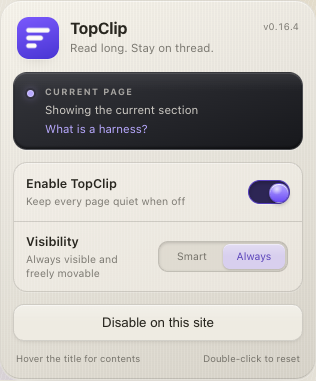
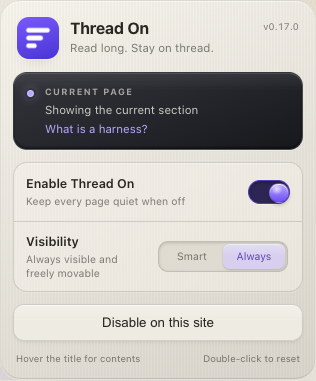
v0.17.0: rename product to Thread On

Changed region(s): [[0.2278, 0.0577, 0.4842, 0.1155], [0.2278, 0.4619, 0.4272, 0.5197], [0.8829, 0.0577, 0.9399, 0.0866]]

diff --git a/src/shared/settings.ts b/src/shared/settings.ts
@@ -8,7 +8,7 @@ export interface FloatingPosition {
   y: number;
 }
 
-export interface WssSettings {
+export interface ThreadOnSettings {
   version: number;
   /** Global switch. No UI is mounted while disabled. */
   enabled: boolean;
@@ -22,7 +22,7 @@ export interface WssSettings {
 export const SETTINGS_VERSION = 6;
 export const SETTINGS_KEY = 'wss:settings';
 
-export const DEFAULT_SETTINGS: WssSettings = {
+export const DEFAULT_SETTINGS: ThreadOnSettings = {
   version: SETTINGS_VERSION,
   enabled: true,
   displayPolicy: 'always',
@@ -90,7 +90,7 @@ function normalizeFloatingPositions(raw: unknown): Record<string, FloatingPositi
 }
 
 /** Migrate supported legacy fields and validate all persisted values. */
-export function normalizeSettings(raw: unknown): WssSettings {
+export function normalizeSettings(raw: unknown): ThreadOnSettings {
   const input = (raw ?? {}) as Record<string, unknown>;
   const displayPolicy =
     input.displayPolicy === 'peek'
@@ -122,12 +122,15 @@ export function matchSite(sites: string[], hostname: string): string | undefined
   return sites.find((entry) => host === entry || host.endsWith(`.${entry}`));
 }
 
-export function isSiteEnabled(settings: WssSettings, hostname: string): boolean {
+export function isSiteEnabled(settings: ThreadOnSettings, hostname: string): boolean {
   if (!settings.enabled) return false;
   return matchSite(settings.disabledSites, hostname) === undefined;
 }
 
-export function toggleSite(settings: WssSettings, hostname: string): WssSettings {
+export function toggleSite(
+  settings: ThreadOnSettings,
+  hostname: string,
+): ThreadOnSettings {
   const host = normalizeHost(hostname);
   if (!host) return settings;
   const matched = matchSite(settings.disabledSites, host);
@@ -143,7 +146,7 @@ function hasChromeStorage(): boolean {
   return typeof chrome !== 'undefined' && !!chrome?.storage?.sync;
 }
 
-export async function loadSettings(): Promise<WssSettings> {
+export async function loadSettings(): Promise<ThreadOnSettings> {
   if (!hasChromeStorage()) {
     try {
       const raw = window.localStorage.getItem(LS_KEY);
@@ -160,7 +163,7 @@ export async function loadSettings(): Promise<WssSettings> {
   }
 }
 
-export async function saveSettings(next: WssSettings): Promise<void> {
+export async function saveSettings(next: ThreadOnSettings): Promise<void> {
   const normalized = normalizeSettings(next);
   if (!hasChromeStorage()) {
     try {
@@ -177,7 +180,9 @@ export async function saveSettings(next: WssSettings): Promise<void> {
   }
 }
 
-export function subscribeSettings(callback: (settings: WssSettings) => void): () => void {
+export function subscribeSettings(
+  callback: (settings: ThreadOnSettings) => void,
+): () => void {
   if (!hasChromeStorage()) {
     const onStorage = (event: StorageEvent): void => {
       if (event.key !== LS_KEY) return;

diff --git a/src/content/index.ts b/src/content/index.ts
@@ -16,7 +16,7 @@ import {
   saveSettings,
   subscribeSettings,
   type FloatingPosition,
-  type WssSettings,
+  type ThreadOnSettings,
 } from '../shared/settings';
 import { STATUS_MESSAGE, type ContentStatus } from '../shared/protocol';
 import {
@@ -31,13 +31,13 @@ import { ScrollTracker, type TrackerSnapshot } from './tracker';
 import { detectTopChrome } from './top-chrome';
 import { CapsuleUI } from './ui';
 
-declare const __WSS_VERSION__: string;
+declare const __THREAD_ON_VERSION__: string;
 
 class ReadingContextApp {
   private readonly guard = new FailureGuard({
     onFailSafe: (reason) => this.failSafe(reason),
   });
-  private settings: WssSettings = { ...DEFAULT_SETTINGS };
+  private settings: ThreadOnSettings = { ...DEFAULT_SETTINGS };
   private index: HeadingIndex | null = null;
   private tracker: ScrollTracker | null = null;
   private ui: CapsuleUI | null = null;
@@ -102,7 +102,7 @@ class ReadingContextApp {
     this.applySettings(this.settings);
   }
 
-  private applySettings(next: WssSettings): void {
+  private applySettings(next: ThreadOnSettings): void {
     const previousPolicy = this.settings.displayPolicy;
     this.settings = next;
     this.siteAllowed = isSiteEnabled(next, location.hostname);
@@ -601,7 +601,7 @@ class ReadingContextApp {
       pageTocVisible: this.tocVisible,
       dockTop: this.pillTop(),
       layerZIndex: this.layerZIndex(),
-      contentVersion: __WSS_VERSION__,
+      contentVersion: __THREAD_ON_VERSION__,
       displayPolicy: this.settings.displayPolicy,
       currentSection:
         this.snapshot && this.snapshot.index >= 0

diff --git a/src/popup/popup.html b/src/popup/popup.html
@@ -3,7 +3,7 @@
   <head>
     <meta charset="UTF-8" />
     <meta name="viewport" content="width=device-width, initial-scale=1.0" />
-    <title>TopClip</title>
+    <title>Thread On</title>
     <style>
       :root {
         color-scheme: light dark;
@@ -447,7 +447,7 @@
       <header>
         <img class="logo" src="../../icons/icon48.png" alt="" width="42" height="42" />
         <div class="brand">
-          <h1 data-i18n="extensionName">TopClip</h1>
+          <h1 data-i18n="brandName">Thread On</h1>
           <p data-i18n="tagline">Read long. Stay on thread.</p>
         </div>
         <span class="version" id="version"></span>
@@ -461,10 +461,10 @@
         </div>
       </section>
 
-      <section class="controls" data-i18n-aria-label="settingsAria" aria-label="TopClip settings">
+      <section class="controls" data-i18n-aria-label="settingsAria" aria-label="Thread On settings">
         <label class="row">
           <span class="row-label">
-            <strong data-i18n="enableLabel">Enable TopClip</strong>
+            <strong data-i18n="enableLabel">Enable Thread On</strong>
             <small data-i18n="enableHint">Keep every page quiet when off</small>
           </span>
           <span class="switch">

diff --git a/src/popup/popup.ts b/src/popup/popup.ts
@@ -5,7 +5,7 @@ import {
   saveSettings,
   toggleSite,
   type DisplayPolicy,
-  type WssSettings,
+  type ThreadOnSettings,
 } from '../shared/settings';
 import { localizeDocument, t, type MessageKey } from '../shared/i18n';
 import { STATUS_MESSAGE, type ContentStatus } from '../shared/protocol';
@@ -31,7 +31,7 @@ const policyInputs = [
   ...document.querySelectorAll<HTMLInputElement>('input[name="displayPolicy"]'),
 ];
 
-let settings: WssSettings = { ...DEFAULT_SETTINGS };
+let settings: ThreadOnSettings = { ...DEFAULT_SETTINGS };
 let pageStatus: ContentStatus | null = null;
 
 function renderStatusMessage(message: string, currentSection?: string | null): void {

diff --git a/src/shared/i18n.test.ts b/src/shared/i18n.test.ts
@@ -14,6 +14,8 @@ describe('i18n', () => {
   });
 
   it('falls back to the English catalog', () => {
+    expect(t('brandName')).toBe('Thread On');
+    expect(t('enableLabel')).toBe('Enable Thread On');
     expect(t('policyAlways')).toBe('Always');
   });
 
@@ -26,6 +28,7 @@ describe('i18n', () => {
     });
 
     expect(t('policyAlways')).toBe('常驻');
+    expect(t('enableLabel')).toBe('启用 Thread On');
     expect(t('siteDisabled', ['example.com'])).toBe('已在 example.com 上停用。');
   });
 

diff --git a/docs/privacy.html b/docs/privacy.html
@@ -3,7 +3,7 @@
   <head>
     <meta charset="UTF-8" />
     <meta name="viewport" content="width=device-width, initial-scale=1.0" />
-    <title>隐私政策 · TopClip</title>
+    <title>隐私政策 · Thread On</title>
     <style>
       body {
         margin: 0 auto;
@@ -25,7 +25,7 @@
     </style>
   </head>
   <body>
-    <h1>隐私政策 · TopClip</h1>
+    <h1>隐私政策 · Thread On</h1>
     <p class="meta">最后更新：2026-10-23</p>
 
     <h2>我们收集什么</h2>

diff --git a/e2e/complex-background-fixture.html b/e2e/complex-background-fixture.html
@@ -51,7 +51,7 @@
       </p>
       <h2 style="color: white">第二节：保持克制</h2>
       <p>
-        页面可以非常鲜艳，但 TopClip 只增加一个可控的小表面，不改正文、不盖住页面结构。
+        页面可以非常鲜艳，但 Thread On 只增加一个可控的小表面，不改正文、不盖住页面结构。
         控件始终留在视口安全边界内，并允许用户拖到更合适的位置。
       </p>
       <p>

diff --git a/e2e/fixture.html b/e2e/fixture.html
@@ -2,7 +2,7 @@
 <html lang="zh-CN">
   <head>
     <meta charset="UTF-8" />
-    <title>TopClip · E2E Fixture</title>
+    <title>Thread On · E2E Fixture</title>
     <style>
       body { margin: 0; font: 16px/1.8 system-ui, sans-serif; color: #111; }
       .topbar { position: fixed; inset: 0 0 auto 0; height: 56px; background: #fff; border-bottom: 1px solid #ddd; display: flex; align-items: center; padding: 0 20px; z-index: 10; }

diff --git a/demo/index.html b/demo/index.html
@@ -186,7 +186,7 @@ export function visibleItems(state, query) {
 
     <footer class="site-footer">
       <h3>关于本站</h3>
-      <p>这是一个用于验证 TopClip 的本地演示页面。</p>
+      <p>这是一个用于验证 Thread On 的本地演示页面。</p>
     </footer>
 
     <div class="demo-toolbar">

diff --git a/vite.config.ts b/vite.config.ts
@@ -5,7 +5,7 @@ import manifest from './manifest.json' with { type: 'json' };
 export default defineConfig({
   plugins: [crx({ manifest })],
   define: {
-    __WSS_VERSION__: JSON.stringify(manifest.version),
+    __THREAD_ON_VERSION__: JSON.stringify(manifest.version),
   },
   build: {
     outDir: 'dist',

diff --git a/README.md b/README.md
@@ -1,16 +1,16 @@
-# TopClip
+# Thread On
 
 [![CI](https://github.com/dongruixiao/web-sticky-scroll/actions/workflows/ci.yml/badge.svg)](https://github.com/dongruixiao/web-sticky-scroll/actions/workflows/ci.yml)
 
-> **TopClip — 读长文，不掉线**
-> 仓库名 `web-sticky-scroll` 是技术标识；面向用户的产品名是 TopClip。
+> **Thread On — 读长文，不掉线**
+> 仓库名 `web-sticky-scroll` 是技术标识；面向用户的产品名是 Thread On。
 
 阅读长文时，真正容易丢失的往往不是导航，而是**当前这一节在讲什么**。往下滚动几屏后，眼睛还在正文里，
-上下文却已经断了。TopClip 用一枚始终显示当前章节的拟物胶囊，帮你保持内容记忆；目录和进度是顺带的辅助。
+上下文却已经断了。Thread On 用一枚始终显示当前章节的拟物胶囊，帮你保持内容记忆；目录和进度是顺带的辅助。
 
 ## 产品形态
 
-TopClip 现在只有一种稳定形态：**可自由拖动的拟物章节胶囊**。
+Thread On 现在只有一种稳定形态：**可自由拖动的拟物章节胶囊**。
 
 - 胶囊显示当前章节标题，不复制网页标题、不伪造页面结构。
 - 胶囊可拖到视口内任何位置，位置按站点记忆，双击恢复默认位置。
@@ -69,7 +69,7 @@ TopClip 现在只有一种稳定形态：**可自由拖动的拟物章节胶囊*
 | 正文容器与侧栏过滤 | 避免把页脚、导航和评论区标题当作文章章节 |
 
 原则是：**宁可漏掉一个边缘页面，也不在错误场景里展示。** 如果页面结构无法可靠理解，
-TopClip 保持静默，不在页面上留下空胶囊或异常 DOM。
+Thread On 保持静默，不在页面上留下空胶囊或异常 DOM。
 
 ## 适用场景
 
@@ -99,7 +99,7 @@ TopClip 保持静默，不在页面上留下空胶囊或异常 DOM。
 
 | 选项 | 默认 |
 | --- | --- |
-| 开启 / 关闭 TopClip | 开启 |
+| 开启 / 关闭 Thread On | 开启 |
 | 智能 / 常驻 | 常驻 |
 | 当前站点停用 / 启用 | 跟随用户操作 |
 
@@ -151,7 +151,7 @@ npm run field-check
 加载开发版：`chrome://extensions` → 开启开发者模式 →「加载已解压的扩展程序」→ 选择 `dist/`。
 
 `npm run e2e` 需要支持 `--load-extension` 的 Chromium / Chrome for Testing。也可以通过
-`WSS_CHROME_PATH=/path/to/chrome npm run e2e` 指定浏览器；Chrome 137+ 正式版不能再用命令行加载未打包扩展。
+`THREAD_ON_CHROME_PATH=/path/to/chrome npm run e2e` 指定浏览器；Chrome 137+ 正式版不能再用命令行加载未打包扩展。
 
 完整发布前验证：
 
@@ -159,15 +159,15 @@ npm run field-check
 npm run typecheck
 npx vitest run
 npm run build
-WSS_CHROME_PATH="/path/to/chrome" npm run e2e
-WSS_CHROME_PATH="/path/to/chrome" npm run field-check
+THREAD_ON_CHROME_PATH="/path/to/chrome" npm run e2e
+THREAD_ON_CHROME_PATH="/path/to/chrome" npm run field-check
 npm run package
 ```
 
 ## 发布到 Chrome 应用商店
 
 商店文案、权限说明、截图和隐私政策在 [`store/`](store/) 目录。`npm run package` 会生成
-`release/web-sticky-scroll-<version>.zip`，zip 根目录就是 `manifest.json`，可直接上传开发者信息中心。
+`release/thread-on-<version>.zip`，zip 根目录就是 `manifest.json`，可直接上传开发者信息中心。
 
 发布前请确认：
 

diff --git a/store/listing.md b/store/listing.md
@@ -6,7 +6,7 @@
 
 | 字段 | 内容 |
 | --- | --- |
-| 名称 | TopClip — 读长文，不掉线 |
+| 名称 | Thread On — 读长文，不掉线 |
 | 简短说明（132 字符内） | 读长文，不掉线：可拖动的拟物胶囊常显示当前章节，提醒你这一节在讲什么；悬停看目录，徽标圆环显示整篇进度。 |
 | 类别 | 生产力工具（Productivity） |
 | 语言 | 中文（简体），可另加 English |
@@ -14,17 +14,17 @@
 
 ## 详细说明
 
-TopClip —— 读长文，不掉线。
+Thread On —— 读长文，不掉线。
 
 阅读长文时，真正容易丢失的不是目录位置，而是当前这一节在讲什么。往下滚动几屏后，眼睛还在字里，
-上下文却已经断了。TopClip 用一枚带金属质感的拟物胶囊显示当前章节，让你随时知道自己在读什么。
+上下文却已经断了。Thread On 用一枚带金属质感的拟物胶囊显示当前章节，让你随时知道自己在读什么。
 
 它不改造网页，也不伪造站点的标题：
 
 - 可自由拖动的拟物胶囊，位置按站点记忆，双击恢复默认
 - 拉丝金属外壳、深色内嵌目录屏；左侧徽标外圈随阅读进度逐渐闭合
 - 悬停查看按标题树组织的完整目录，点击平滑跳转到对应章节
-- 徽标圆环显示整篇文章进度，读到文末正好闭合，不占用网页顶部
+- 徽标圆环显示整篇文章进度，读到文末正好闭合
 - 智能 / 常驻两种显示策略：向下阅读时浮现，或始终显示
 - 胶囊左边缘固定，标题过长时向右扩展；目录保持固定版心宽度并与胶囊左对齐
 - 原站已有目录时自动退让，避免两套目录互相干扰
